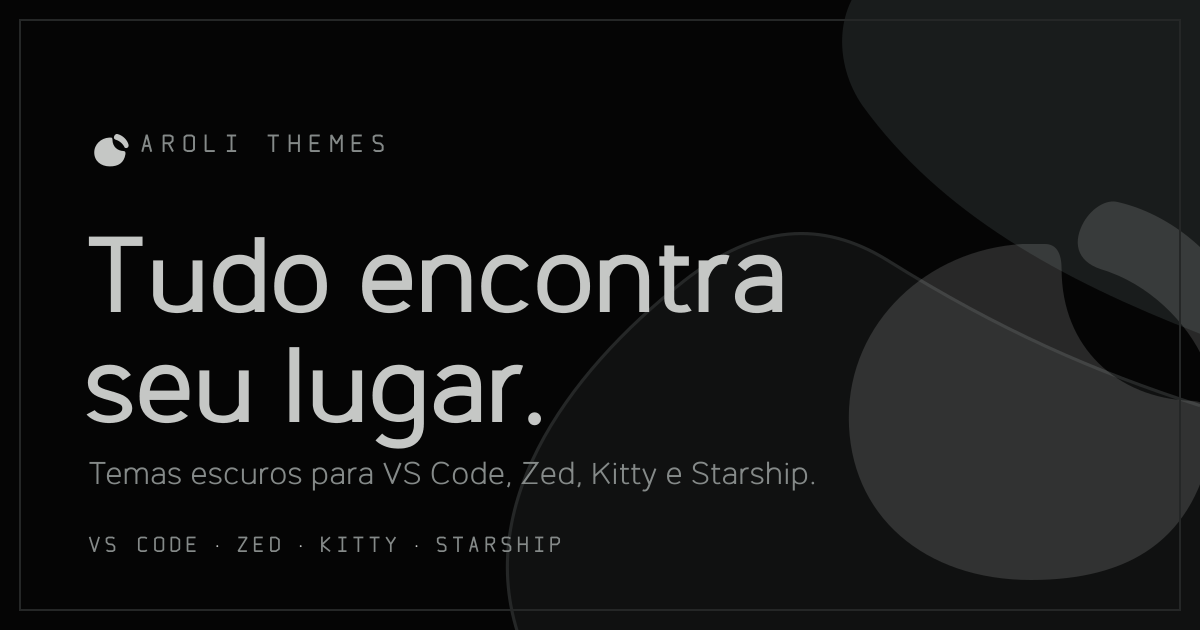
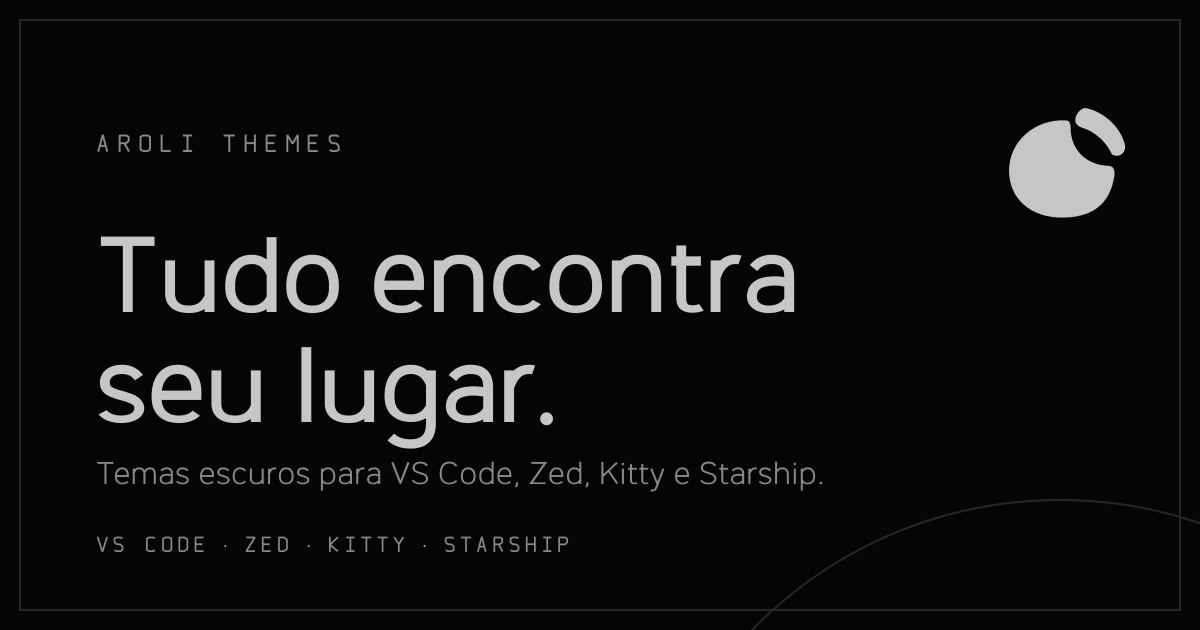
fix: simplify OG image grid, background and mark usage

diff --git a/web/scripts/og-image.py b/web/scripts/og-image.py
@@ -32,27 +32,22 @@ INK, BONE, MUTED, LINE = "#050505", "#C5C7C5", "#858A89", "#252727"
 BODY = "M96 40 C100 40 102 43 102 49 C102 77 122 95 148 96 C155 96 157 101 156 109 C150 146 126 160 91 160 C53 160 26 137 26 102 C26 68 54 42 88 40 Z"
 PIECE = "M122 25 C144 30 164 49 169 70 C171 80 162 87 153 82 C147 68 133 54 116 49 C107 46 106 39 110 32 C113 27 118 24 122 25 Z"
 
-# web/public/aroli-backdrop.svg — layered dark shapes + hairline, cover-cropped
-# from 3840x2160 to 1200x630 (scale 0.3125, centered vertically).
-BACKDROP = (
-    '<g transform="translate(0,-22.5) scale(0.3125)">'
-    '<path d="M2780 0H3840V1140C3390 965 3010 755 2760 410C2670 280 2670 100 2780 0Z" fill="#191C1C"/>'
-    '<path d="M1680 2160C1490 1710 1810 1270 2190 970C2420 790 2630 775 2840 905C3200 1130 3500 1260 3840 1370V2160Z" fill="#101111"/>'
-    '<path d="M1680 2160C1490 1710 1810 1270 2190 970C2420 790 2630 775 2840 905C3200 1130 3500 1260 3840 1370" fill="none" stroke="#252727" stroke-width="10"/>'
-    "</g>"
-)
+# web/public/aroli-backdrop.svg dá a linguagem (planos + fio), mas o fundo aqui é
+# plano: DESIGN.md pede intervalo com espaço negativo legível, sem repetir o
+# logo no fundo. Um único arco complementar carrega o gesto; a marca aparece
+# uma vez, íntegra e com área livre no canto superior direito.
+ACCENT = '<circle cx="1060" cy="930" r="430" fill="none" stroke="#252727" stroke-width="2"/>'
 
 SVG = f"""<svg xmlns="http://www.w3.org/2000/svg" width="1200" height="630" viewBox="0 0 1200 630">
 <rect width="1200" height="630" fill="{INK}"/>
-{BACKDROP}
-<g transform="translate(776,132) scale(2.8)" fill="{BONE}" opacity="0.18"><path d="{BODY}"/><path d="{PIECE}"/></g>
+{ACCENT}
 <rect x="20" y="20" width="1160" height="590" fill="none" stroke="{LINE}" stroke-width="2"/>
-<g transform="translate(88,128) scale(0.24)" fill="{BONE}"><path d="{BODY}"/><path d="{PIECE}"/></g>
-<text x="140" y="152" font-family="Aroli Mono NF" font-size="25" letter-spacing="6" fill="{MUTED}">AROLI THEMES</text>
-<text x="84" y="312" font-family="Aroli Sans" font-weight="600" font-size="104" fill="{BONE}">Tudo encontra</text>
-<text x="84" y="422" font-family="Aroli Sans" font-weight="600" font-size="104" fill="{BONE}">seu lugar.</text>
-<text x="88" y="484" font-family="Aroli Sans" font-size="31" fill="{MUTED}">Temas escuros para VS Code, Zed, Kitty e Starship.</text>
-<text x="88" y="552" font-family="Aroli Mono NF" font-size="22" letter-spacing="3" fill="{MUTED}">VS CODE <tspan fill="{BONE}">·</tspan> ZED <tspan fill="{BONE}">·</tspan> KITTY <tspan fill="{BONE}">·</tspan> STARSHIP</text>
+<g transform="translate(988,88) scale(0.81)" fill="{BONE}"><path d="{BODY}"/><path d="{PIECE}"/></g>
+<text x="96" y="152" font-family="Aroli Mono NF" font-size="25" letter-spacing="6" fill="{MUTED}">AROLI THEMES</text>
+<text x="96" y="312" font-family="Aroli Sans" font-weight="600" font-size="104" fill="{BONE}">Tudo encontra</text>
+<text x="96" y="422" font-family="Aroli Sans" font-weight="600" font-size="104" fill="{BONE}">seu lugar.</text>
+<text x="96" y="484" font-family="Aroli Sans" font-size="31" fill="{MUTED}">Temas escuros para VS Code, Zed, Kitty e Starship.</text>
+<text x="96" y="552" font-family="Aroli Mono NF" font-size="22" letter-spacing="3" fill="{MUTED}">VS CODE <tspan fill="{BONE}">·</tspan> ZED <tspan fill="{BONE}">·</tspan> KITTY <tspan fill="{BONE}">·</tspan> STARSHIP</text>
 </svg>
 """
 
